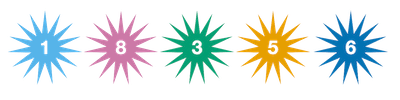
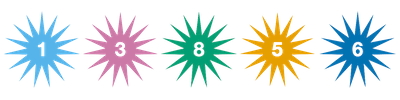
telephone answer fix

Changed region(s): [[0.0, 0.12, 0.99, 0.87]]

diff --git a/src/pages/locationPage/puzzles/demo/demoData.js b/src/pages/locationPage/puzzles/demo/demoData.js
@@ -99,7 +99,7 @@ const demoData = [
                 text: "To open the telephone, dial the numbers from the telescope in the order shown on the books. If you ask for another hint on this puzzle you will receive the solution."
             },
             {
-                text: "Dial the numbers on the telephone in this order: 1 8 3 5 6.",
+                text: "Dial the numbers on the telephone in this order: 13856.",
                 image: phoneSolution
             }
         ]

diff --git a/src/pages/locationPage/puzzles/answerData.js b/src/pages/locationPage/puzzles/answerData.js
@@ -1,7 +1,7 @@
 const answerData = {
     buttons: ['rook', 'queen', 'knight', 'bishop'],
     typewriter: 'astrology',
-    telephone: '18356'
+    telephone: '13856'
 }
 
 export default answerData
